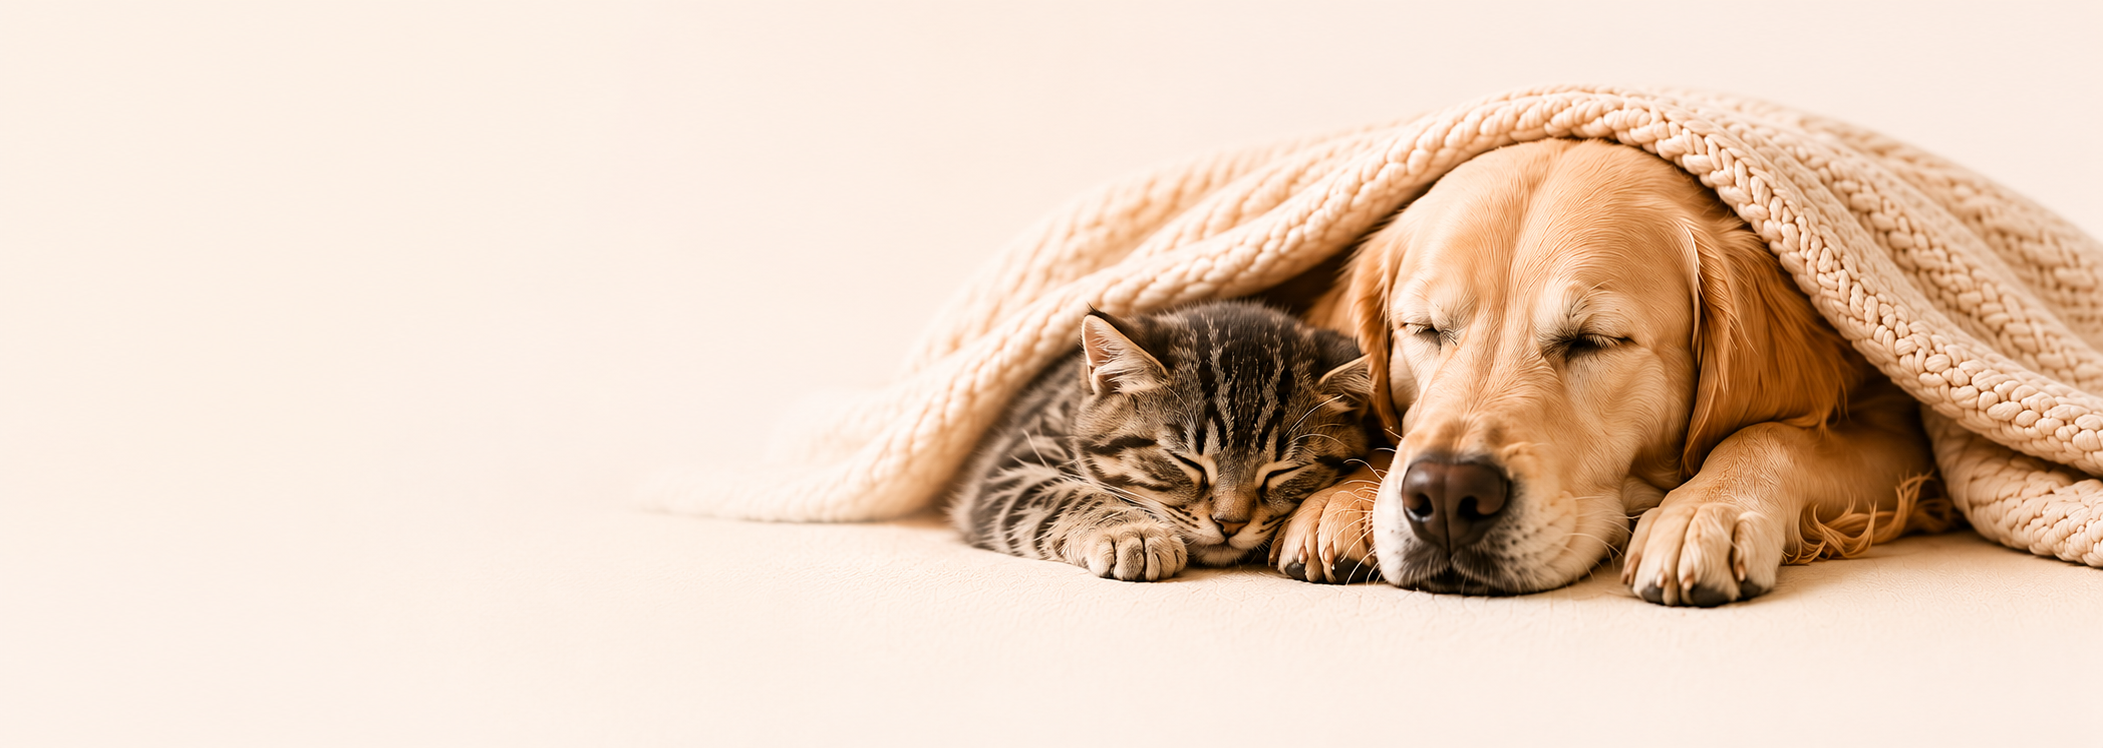
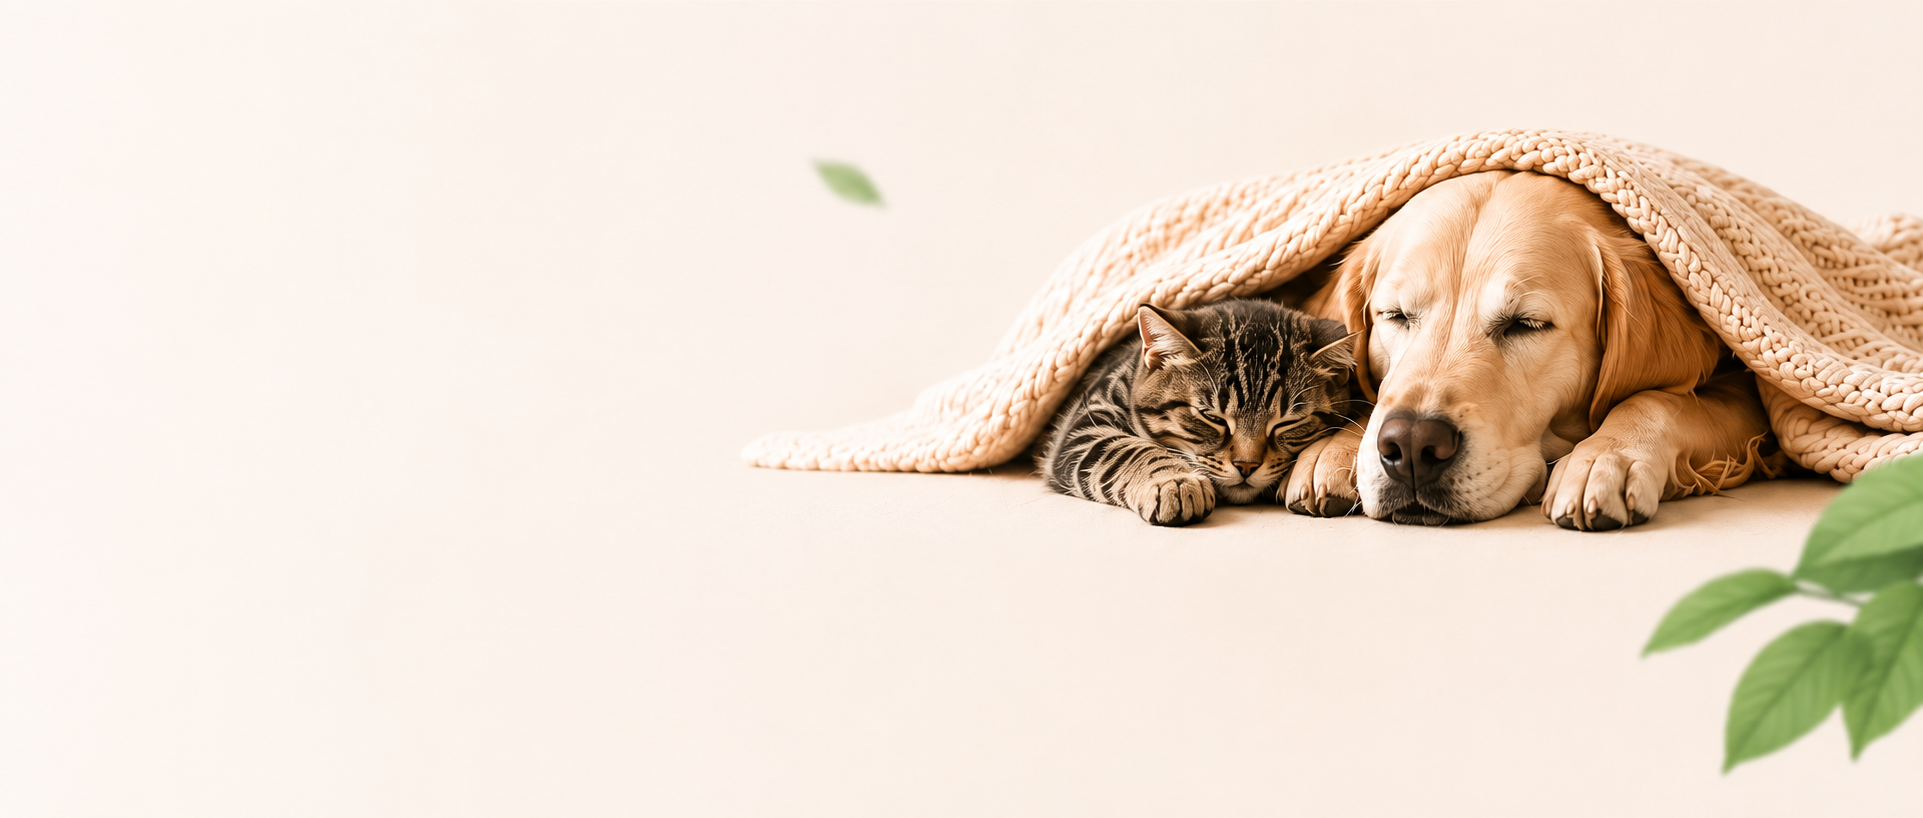
Enhance App.css with new green color variables, adjust button font weights for better readability, and update hero section styles for improved layout. Remove unused provider images and streamline provider image handling in providerImages.ts.

Changed region(s): [[0.3432, 0.0922, 1.0, 0.9532], [0.4056, 0.1845, 0.468, 0.2767]]

diff --git a/src/App.css b/src/App.css
@@ -3,6 +3,9 @@
   --page-gutter: 56px;
   --brown: #4b2314;
   --brown-2: #6c351d;
+  --green: #637f32;
+  --green-dark: #4d6628;
+  --green-soft: #eef4df;
   --line: #ecdcd0;
   --panel: rgba(255, 255, 255, 0.82);
   --muted: #5a4940;
@@ -45,7 +48,7 @@ button {
 }
 
 .brand:focus-visible {
-  outline: 2px solid rgba(111, 53, 27, 0.42);
+  outline: 2px solid rgba(99, 127, 50, 0.42);
   outline-offset: 4px;
 }
 
@@ -118,7 +121,7 @@ button {
 
 .hero-section {
   position: relative;
-  min-height: 330px;
+  min-height: 355px;
   padding-top: 44px;
   overflow: hidden;
 }
@@ -130,8 +133,8 @@ button {
   content: '';
   background-image: url('./assets/banner.png');
   background-repeat: no-repeat;
-  background-position: right 6px top 4px;
-  background-size: auto 318px;
+  background-position: right -20px top 0;
+  background-size: auto 355px;
 }
 
 .hero-section::after {
@@ -163,8 +166,12 @@ button {
   color: var(--brown);
   font-size: 36px;
   line-height: 1.34;
-  font-weight: 900;
+  font-weight: 700;
   letter-spacing: 0;
+}
+
+.hero-accent {
+  color: var(--green-dark);
 }
 
 .lead {
@@ -172,7 +179,7 @@ button {
   color: #251914;
   font-size: 18px;
   line-height: 1.58;
-  font-weight: 700;
+  font-weight: 500;
 }
 
 .feature-row {
@@ -210,7 +217,7 @@ button {
   color: #16110f;
   font-size: 15px;
   line-height: 1.35;
-  font-weight: 900;
+  font-weight: 700;
 }
 
 .feature-item p,
@@ -219,7 +226,7 @@ button {
   color: #3f332d;
   font-size: 12px;
   line-height: 1.45;
-  font-weight: 700;
+  font-weight: 500;
 }
 
 .search-panel,
@@ -255,7 +262,7 @@ button {
   color: #17110f;
   font-size: 17px;
   line-height: 1.55;
-  font-weight: 900;
+  font-weight: 600;
 }
 
 .select-field {
@@ -267,7 +274,7 @@ button {
 .select-field > span {
   color: #17110f;
   font-size: 15px;
-  font-weight: 900;
+  font-weight: 600;
 }
 
 .select-field button {
@@ -283,13 +290,13 @@ button {
   color: #6f4b3e;
   background: #fffdfb;
   font-size: 14px;
-  font-weight: 800;
+  font-weight: 600;
   text-align: left;
 }
 
 .select-field > button[aria-expanded='true'] {
-  border-color: #a94d22;
-  box-shadow: 0 0 0 3px rgba(169, 77, 34, 0.1);
+  border-color: var(--green);
+  box-shadow: 0 0 0 3px rgba(99, 127, 50, 0.12);
 }
 
 .select-field svg {
@@ -321,7 +328,7 @@ button {
   background: transparent;
   color: #432417;
   font-size: 15px;
-  font-weight: 900;
+  font-weight: 600;
   text-align: left;
 }
 
@@ -334,7 +341,7 @@ button {
   border: 0;
   border-radius: 7px;
   color: #fffaf5;
-  background: linear-gradient(180deg, #7d4b31, #5b311d);
+  background: linear-gradient(180deg, #789144, var(--green-dark));
   box-shadow: inset 0 1px 0 rgba(255, 255, 255, 0.28);
   font-size: 16px;
   font-weight: 900;
@@ -356,7 +363,7 @@ button {
 }
 
 .section-heading a {
-  color: #6b2f18;
+  color: var(--green-dark);
   font-size: 15px;
   font-weight: 900;
   text-decoration: none;
@@ -413,7 +420,7 @@ button {
 }
 
 .provider-image {
-  aspect-ratio: 386 / 272;
+  aspect-ratio: 492 / 279;
   background: #f3e8dd;
 }
 
@@ -529,7 +536,7 @@ button {
   margin: 0;
   color: #15110f;
   font-size: 18px;
-  font-weight: 900;
+  font-weight: 800;
 }
 
 .provider-title span,
@@ -539,11 +546,13 @@ button {
   color: #7c4b31;
   background: #f2e3d4;
   font-size: 14px;
-  font-weight: 900;
+  font-weight: 700;
 }
 
 .provider-title span {
   padding: 4px 9px;
+  color: var(--green-dark);
+  background: var(--green-soft);
 }
 
 .meta,
@@ -555,11 +564,12 @@ button {
   margin: 8px 0 0;
   color: #5c4a40;
   font-size: 15px;
-  font-weight: 800;
+  font-weight: 600;
 }
 
 .rating {
   color: #211712;
+  font-weight: 700;
 }
 
 .rating svg {
@@ -568,7 +578,7 @@ button {
 
 .price {
   color: #24170f;
-  font-weight: 900;
+  font-weight: 800;
 }
 
 .provider-tags {
@@ -701,7 +711,7 @@ button {
   margin: 12px 0 0;
   color: #1a120e;
   font-size: 17px;
-  font-weight: 900;
+  font-weight: 800;
 }
 
 .cost-copy strong {
@@ -709,7 +719,7 @@ button {
   margin-top: 4px;
   color: #2a1a12;
   font-size: 17px;
-  font-weight: 900;
+  font-weight: 800;
   line-height: 1.35;
 }
 
@@ -730,7 +740,7 @@ button {
   justify-items: center;
   min-height: 140px;
   padding: 20px;
-  color: #7a3f1f;
+  color: var(--green-dark);
   text-align: center;
 }
 
@@ -738,7 +748,7 @@ button {
   margin: 14px 0 0;
   color: #1a120e;
   font-size: 17px;
-  font-weight: 900;
+  font-weight: 800;
 }
 
 .checklist-card p {
@@ -759,7 +769,7 @@ button {
   border: 0;
   border-radius: 7px;
   color: #fffaf5;
-  background: #673818;
+  background: linear-gradient(180deg, #789144, var(--green-dark));
   font-size: 15px;
   font-weight: 900;
   text-decoration: none;
@@ -791,7 +801,7 @@ button {
   color: #1a120e;
   font-size: 14px;
   line-height: 1.35;
-  font-weight: 900;
+  font-weight: 800;
 }
 
 .popular-guide-card p {
@@ -812,12 +822,12 @@ button {
   margin-top: 32px;
   padding: 0 54px 0 0;
   overflow: hidden;
-  border: 1px solid rgba(226, 210, 198, 0.92);
+  border: 1px solid rgba(111, 135, 62, 0.42);
   border-radius: 8px;
   background:
-    linear-gradient(90deg, #fbf1e7 0%, #fff8f1 19%, #fffdf9 54%, #fffaf4 100%),
-    #fffaf5;
-  box-shadow: 0 10px 24px rgba(112, 73, 47, 0.035);
+    linear-gradient(90deg, rgba(77, 102, 40, 0.94) 0%, rgba(99, 127, 50, 0.94) 100%),
+    var(--green-dark);
+  box-shadow: 0 14px 30px rgba(71, 91, 38, 0.12);
 }
 
 .cta-image {
@@ -836,7 +846,7 @@ button {
 
 .guide-cta h2 {
   margin: 0;
-  color: #1a120e;
+  color: #fffdf8;
   font-size: 18px;
   line-height: 1.35;
   font-weight: 900;
@@ -844,7 +854,7 @@ button {
 
 .guide-cta p {
   margin: 7px 0 0;
-  color: #5c4a40;
+  color: rgba(255, 253, 248, 0.88);
   font-size: 16px;
   line-height: 1.45;
   font-weight: 700;
@@ -854,11 +864,11 @@ button {
   gap: 9px;
   min-width: 212px;
   height: 54px;
-  border: 1px solid #d8c3b1;
+  border: 1px solid rgba(255, 255, 255, 0.42);
   border-radius: 10px;
-  color: #5a2c17;
+  color: var(--green-dark);
   background: rgba(255, 252, 248, 0.86);
-  box-shadow: 0 8px 18px rgba(116, 79, 54, 0.045);
+  box-shadow: 0 10px 20px rgba(42, 58, 24, 0.16);
   font-size: 17px;
 }
 
@@ -943,6 +953,11 @@ button {
   .hero-section {
     min-height: 520px;
     padding-top: 330px;
+  }
+
+  .hero-section::before {
+    background-position: center top;
+    background-size: auto 355px;
   }
 
   .hero-section::after {

diff --git a/src/data/providerImages.ts b/src/data/providerImages.ts
@@ -2,21 +2,12 @@ import providerDummy1 from '../assets/providers/provider-dummy-1.png'
 import providerDummy2 from '../assets/providers/provider-dummy-2.png'
 import providerDummy3 from '../assets/providers/provider-dummy-3.png'
 import providerDummy4 from '../assets/providers/provider-dummy-4.png'
-import providerDummy5 from '../assets/providers/provider-dummy-5.png'
-import providerDummy6 from '../assets/providers/provider-dummy-6.png'
-import providerDummy7 from '../assets/providers/provider-dummy-7.png'
-import providerDummy8 from '../assets/providers/provider-dummy-8.png'
 
 export const providerImages = [
   providerDummy1,
   providerDummy2,
   providerDummy3,
   providerDummy4,
-  providerDummy5,
-  providerDummy6,
-  providerDummy7,
-  providerDummy8,
 ] as const
 
-export const visibleProviderImages = providerImages.slice(0, 4)
-export const moreProviderImages = providerImages.slice(4)
+export const visibleProviderImages = providerImages

diff --git a/src/components/Hero.tsx b/src/components/Hero.tsx
@@ -25,7 +25,7 @@ export function Hero() {
         <h1>
           소중한 우리 아이의 마지막 순간,
           <br />
-          펫로그가 함께합니다
+          <span className="hero-accent">펫로그</span>가 함께합니다
         </h1>
         <p className="lead">
           투명한 정보와 비교로
